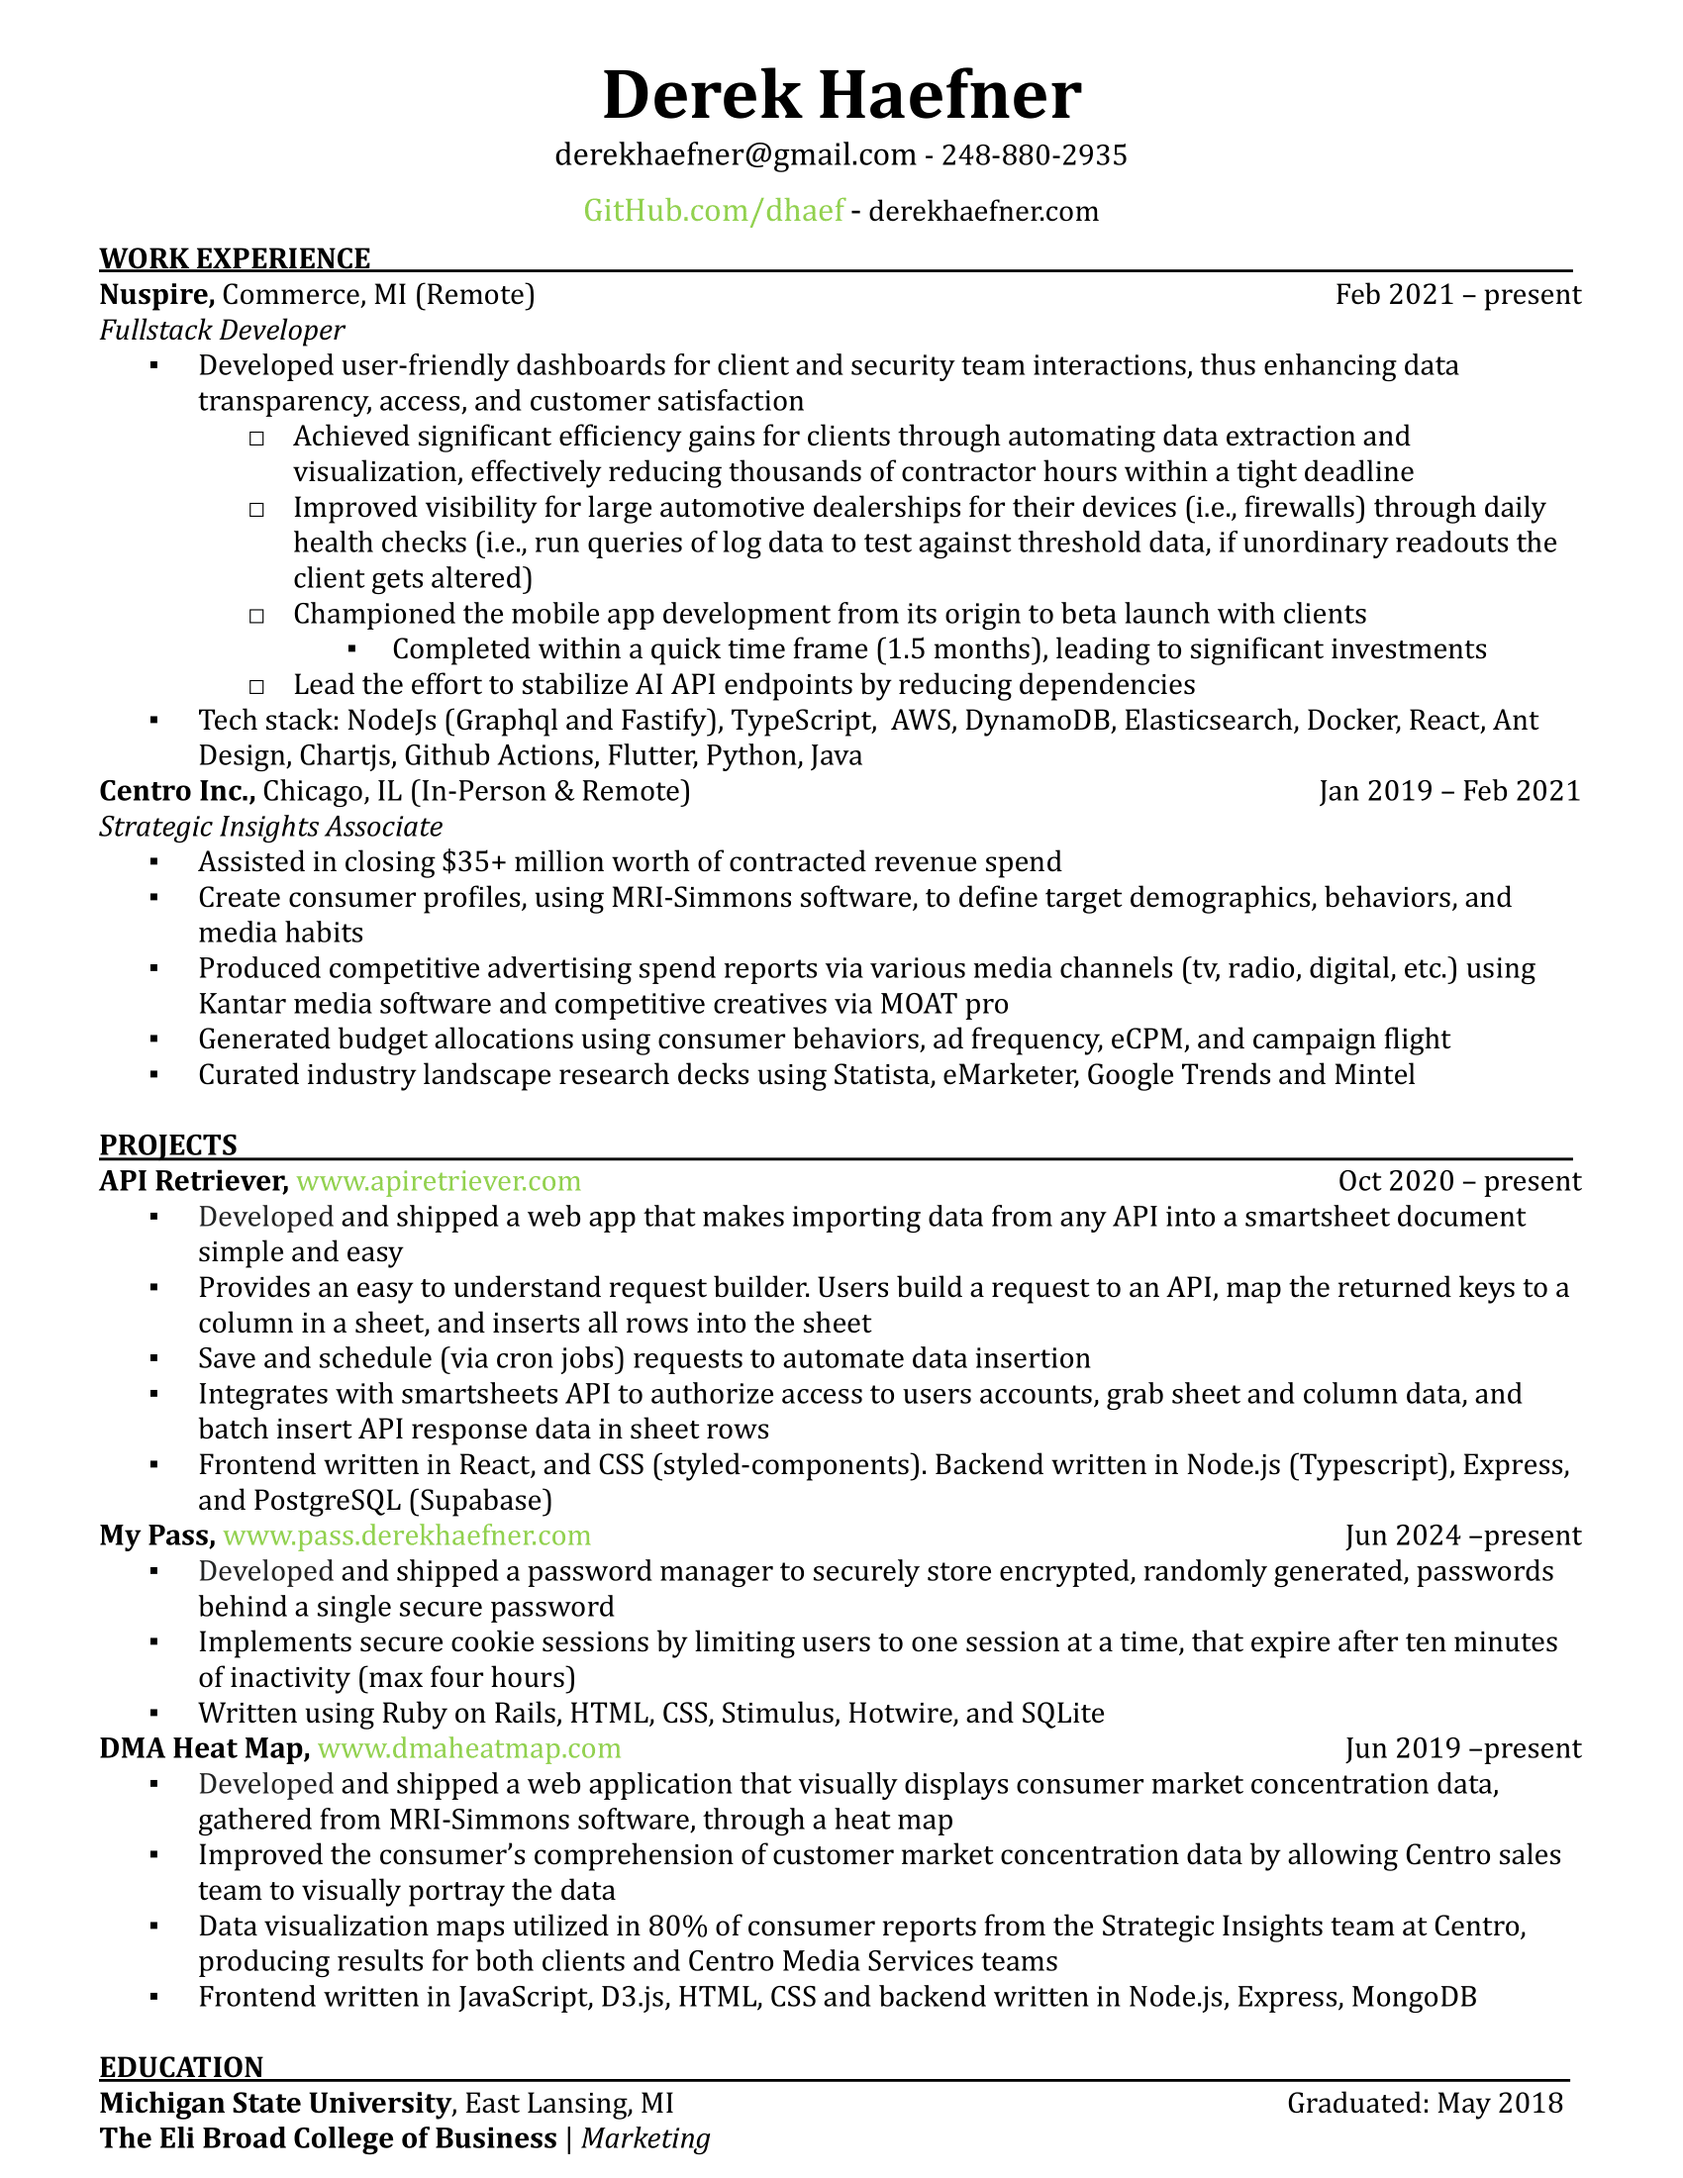
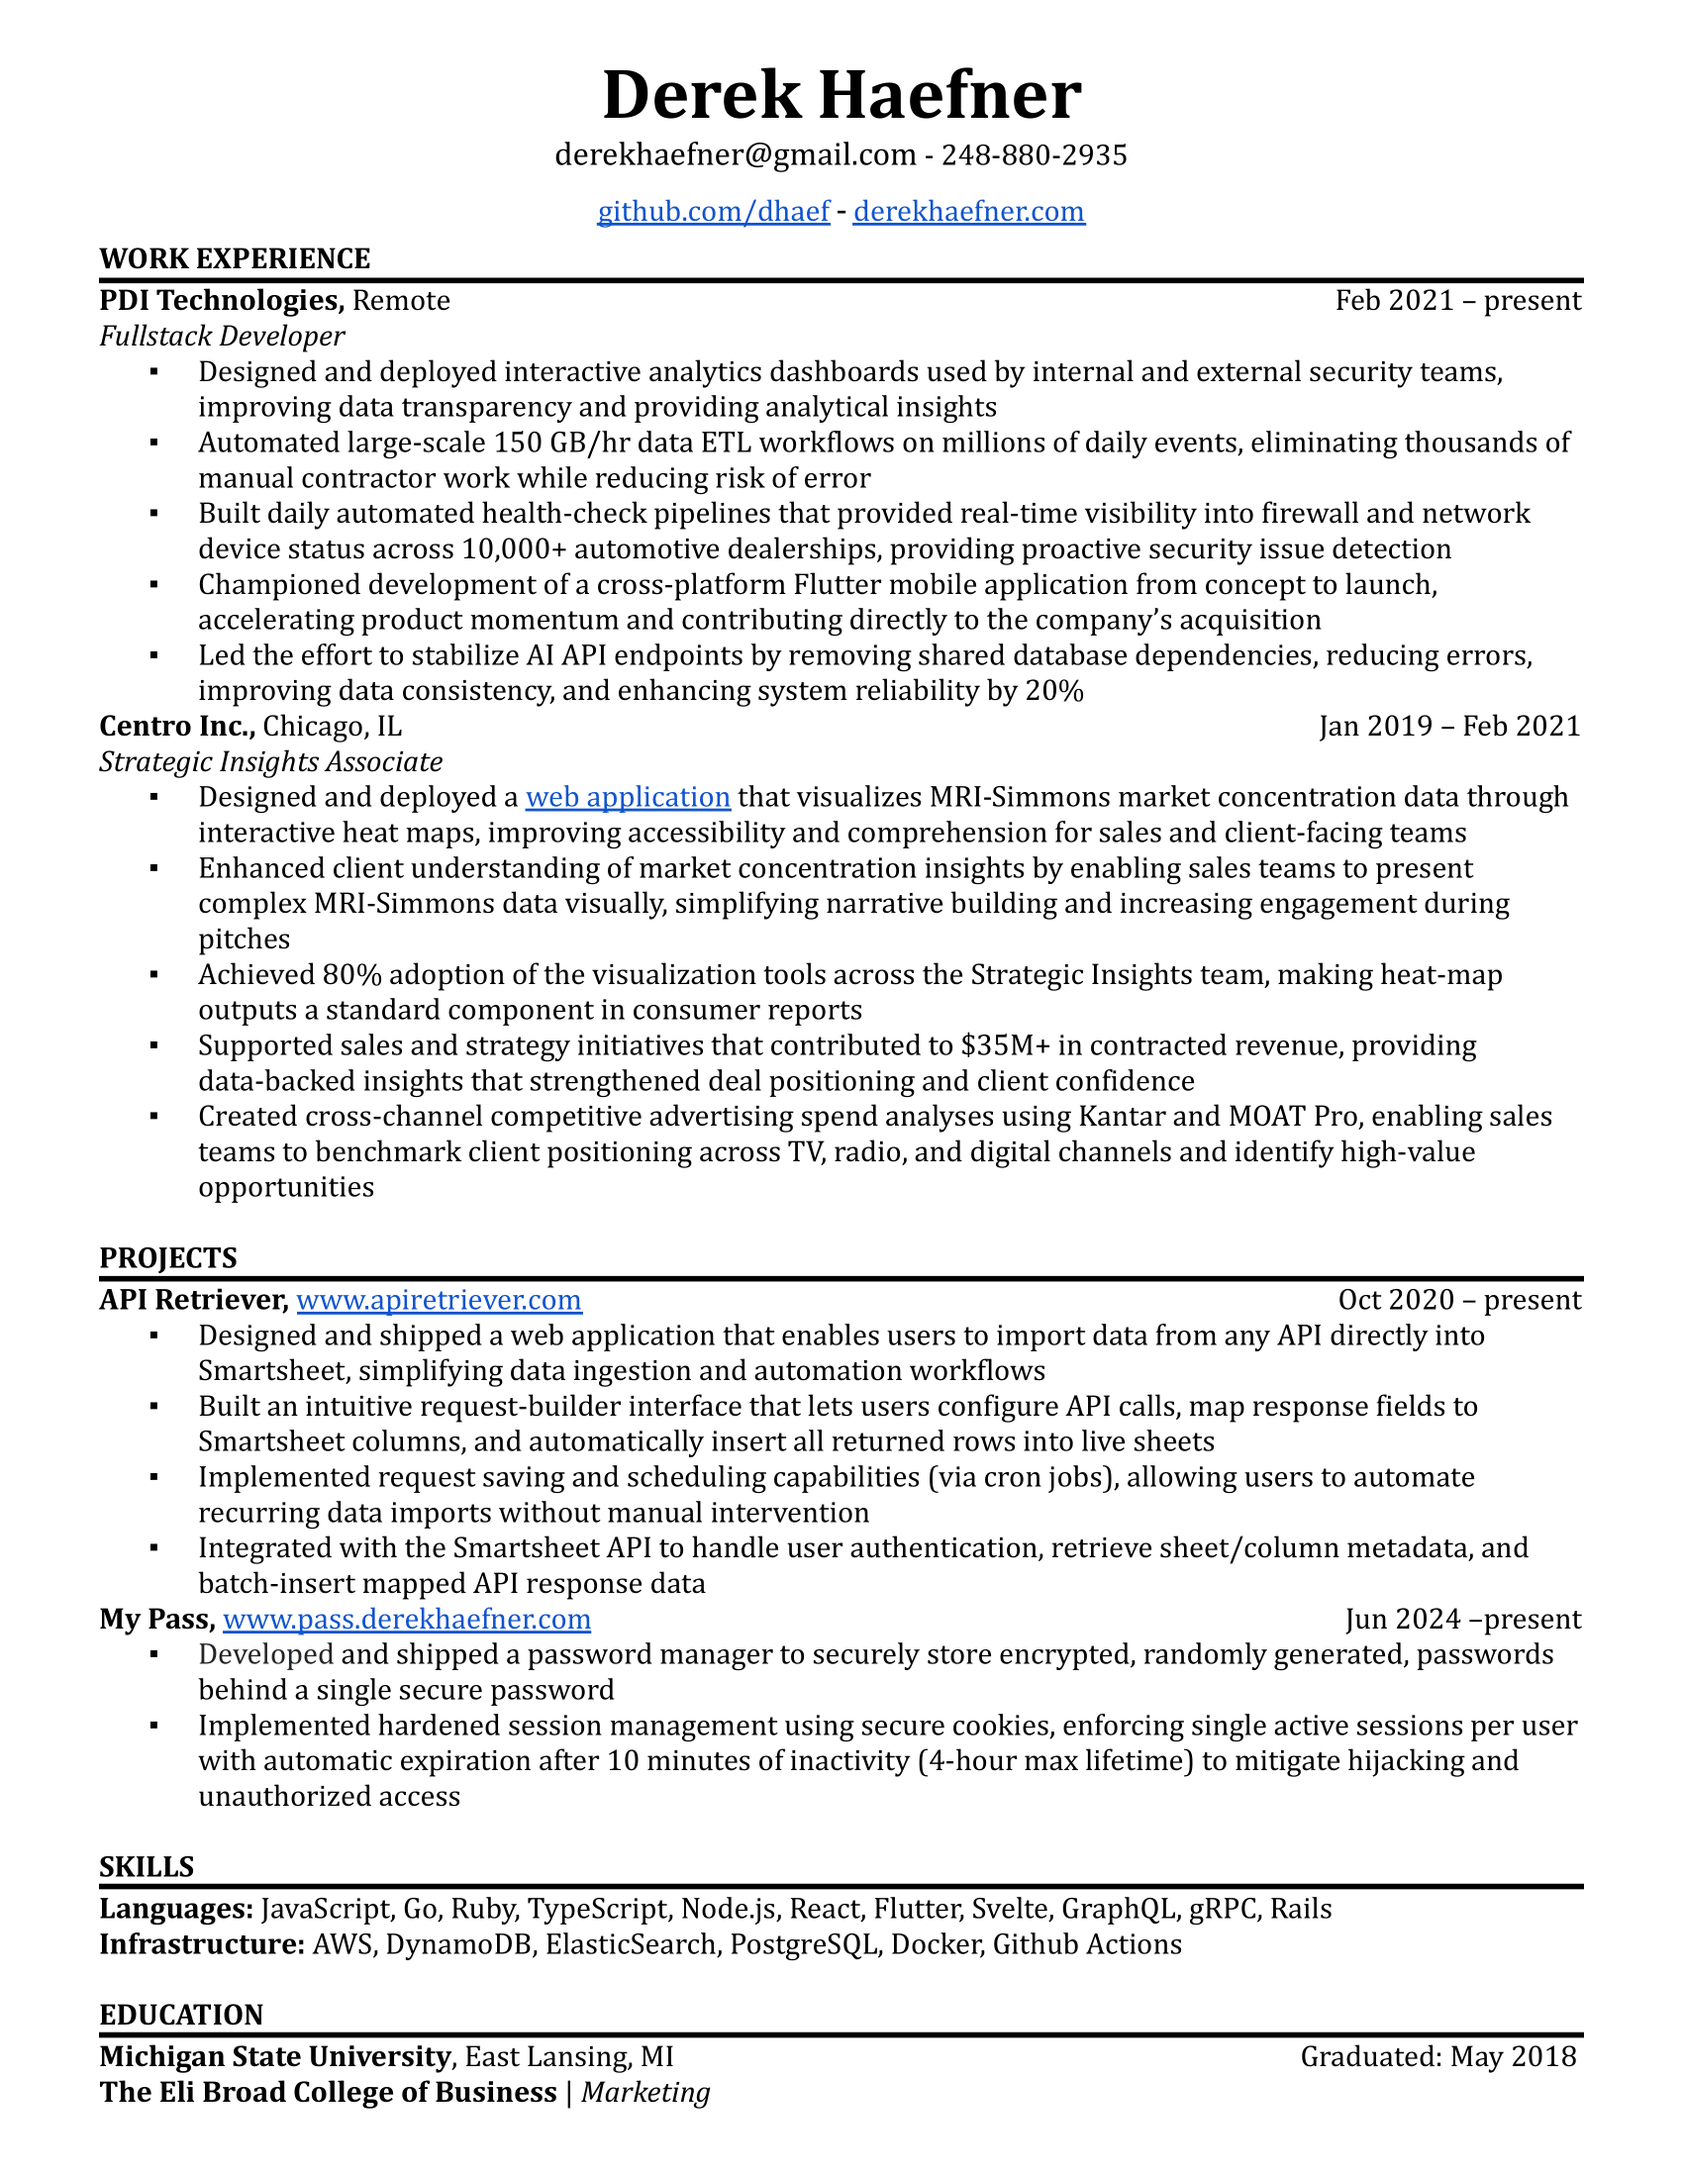
update resume and nextjs

Changed region(s): [[0.0624, 0.0927, 0.9353, 0.9891]]

diff --git a/pages/resume.js b/pages/resume.js
@@ -1,6 +1,6 @@
-import Layout from '../components/layout';
-import styles from './resume.module.css';
-import Head from 'next/head';
+import Layout from "../components/layout";
+import styles from "./resume.module.css";
+import Head from "next/head";
 
 export default function Resume() {
   return (
